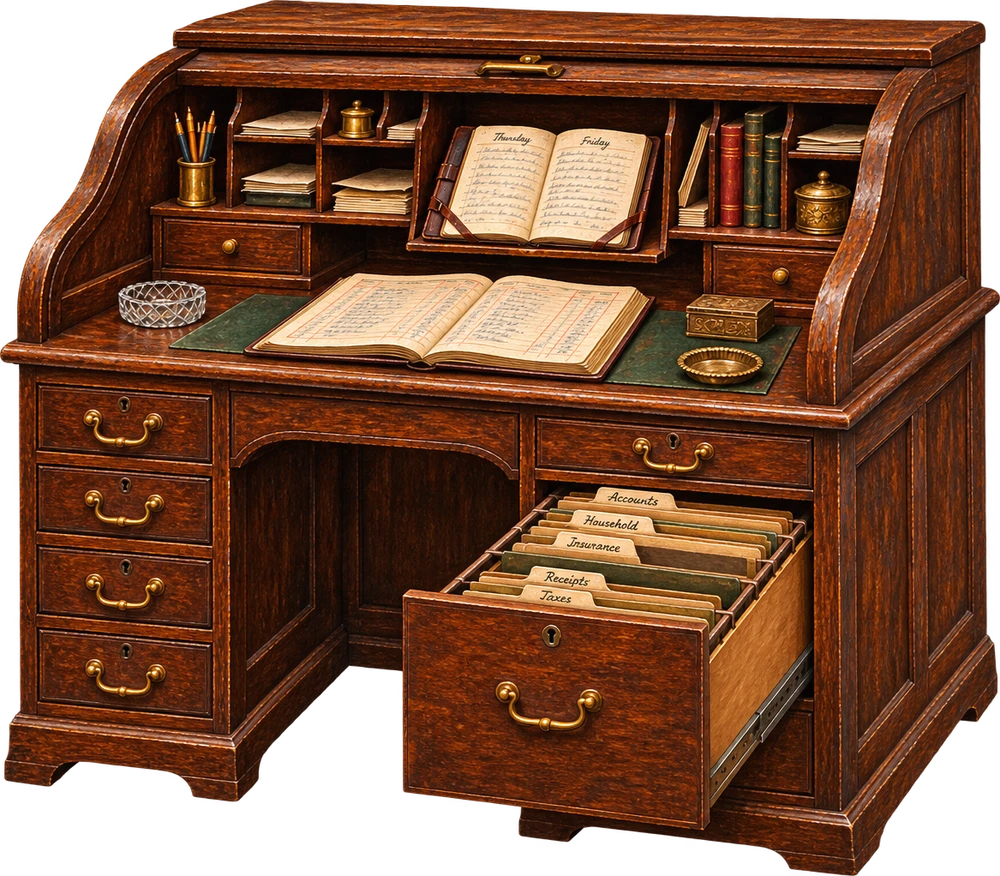
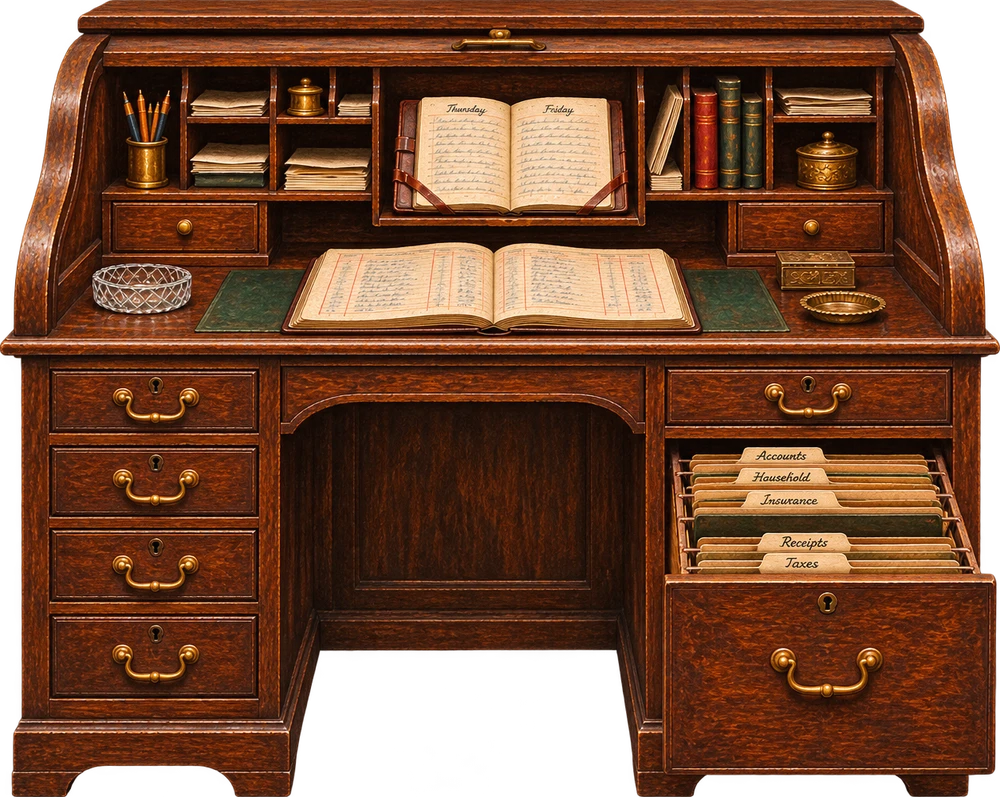
Testing Zone: new roll-top desk, flat against the living room's left wall
Claude-Session: https://claude.ai/code/session_013LCfUXWQD6NCZDVs8qittP

diff --git a/src/game/rooms/c001-living-room.ts b/src/game/rooms/c001-living-room.ts
@@ -34,7 +34,7 @@ export const C001_LIVING_ROOM: TestRoom = {
     // On the rug, a little left of the tape marks (the tape marks and broken glass are laid into the floor image).
     { id: "chair", image: "/rooms/c001-living-room/props/chair.webp", x: -0.33, z: -0.36, width: 0.36, height: 0.28, gain: 1.2, shadow: { width: 0.36, depth: 0.25, back: 0.06 } },
     // Left wall: the roll-top desk toward the front door, the sideboard toward the kitchen arch.
-    { id: "rolltop", image: "/rooms/c001-living-room/props/rolltop.webp", x: -0.72, z: -0.4, width: 0.548, height: 0.48, gain: 1.2, shadow: { width: 0.5, depth: 0.25, back: 0.06 } },
+    { id: "rolltop", image: "/rooms/c001-living-room/props/rolltop.webp", x: -0.6, z: -0.42, width: 0.58, height: 0.4625, gain: 1.2, facing: -90, shadow: { width: 0.55, depth: 0.3, back: 0.12 } },
     { id: "sideboard", image: "/rooms/c001-living-room/props/sideboard.webp", x: -0.7, z: 0.52, width: 0.68, height: 0.477, gain: 1.2, shadow: { width: 0.62, depth: 0.22, back: 0.05 } },
     // Back right corner, by the fireplace and the kitchen arch.
     { id: "palm", image: "/rooms/c001-living-room/props/palm.webp", x: 0.7, z: 0.7, width: 0.4, height: 0.62, gain: 1.2, shadow: { width: 0.25, depth: 0.22, back: 0.02 } },
@@ -44,9 +44,9 @@ export const C001_LIVING_ROOM: TestRoom = {
     { kind: "inspect", id: "lr_chair", yaw: -42.5, pitch: -43.9, label: "Overturned chair", text: "Overturned chair: One of the dining chairs, brought in for coffee. It lies on its back." },
     { kind: "inspect", id: "lr_glass", yaw: -49.6, pitch: -66.7, label: "Broken glass", text: "Broken glass: Crystal shards on the carpet, a bagged piece beside them with an LAPD tag." },
     { kind: "inspect", id: "lr_sofa", yaw: 19.8, pitch: -32.9, label: "Sofa", text: "Where she was found: Police tape marks on the carpet between the sofa and the overturned chair show where Eleanor was found. The sofa cushions are still squared off. Nothing on this side of the room was disturbed." },
-    { kind: "inspect", id: "lr_ledger", yaw: -62.5, pitch: -20.0, label: "Writing desk", text: "Eleanor's writing desk: A roll-top desk. Her household ledger lies open on the blotter." },
-    { kind: "inspect", id: "lr_diary", yaw: -59.8, pitch: -16.0, label: "Desk diary", text: "Desk diary: A leather desk diary propped open on the shelf above the blotter." },
-    { kind: "inspect", id: "lr_drawer", yaw: -57.9, pitch: -28.2, label: "Desk filing drawer", text: "Filing drawer: A deep drawer of hanging files, each labeled in Eleanor's handwriting. One gap stands out." },
+    { kind: "inspect", id: "lr_ledger", yaw: -55.0, pitch: -23.8, label: "Writing desk", text: "Eleanor's writing desk: A roll-top desk. Her household ledger lies open on the blotter." },
+    { kind: "inspect", id: "lr_diary", yaw: -54.6, pitch: -18.1, label: "Desk diary", text: "Desk diary: A leather desk diary propped open on the shelf above the blotter." },
+    { kind: "inspect", id: "lr_drawer", yaw: -45.9, pitch: -27.4, label: "Desk filing drawer", text: "Filing drawer: A deep drawer of hanging files, each labeled in Eleanor's handwriting. One gap stands out." },
     { kind: "inspect", id: "lr_sideboard", yaw: -126.6, pitch: -25.7, label: "Sideboard", text: "Sideboard: A glass cake stand with a few crumbs of lemon cake, five dessert plates stacked beside it, and a tray of crystal water glasses. One place in the set is empty. A space on the runner where something long lay." },
     { kind: "inspect", id: "lr_wine", yaw: -119.9, pitch: -14.3, label: "Wine bottle", text: "Wine bottle: A 1979 Burgundy, two-thirds empty. Fingerprint powder on the neck. The police lab report found only Eleanor's prints." },
     { kind: "inspect", id: "lr_poker", yaw: 109.7, pitch: -20.0, label: "Fireplace tools", text: "Fireplace tools: Poker, brush and shovel, hanging neatly in their stand. A film of dust on all three. The grate holds old, cold ash. No one has lit a fire here since spring." },
